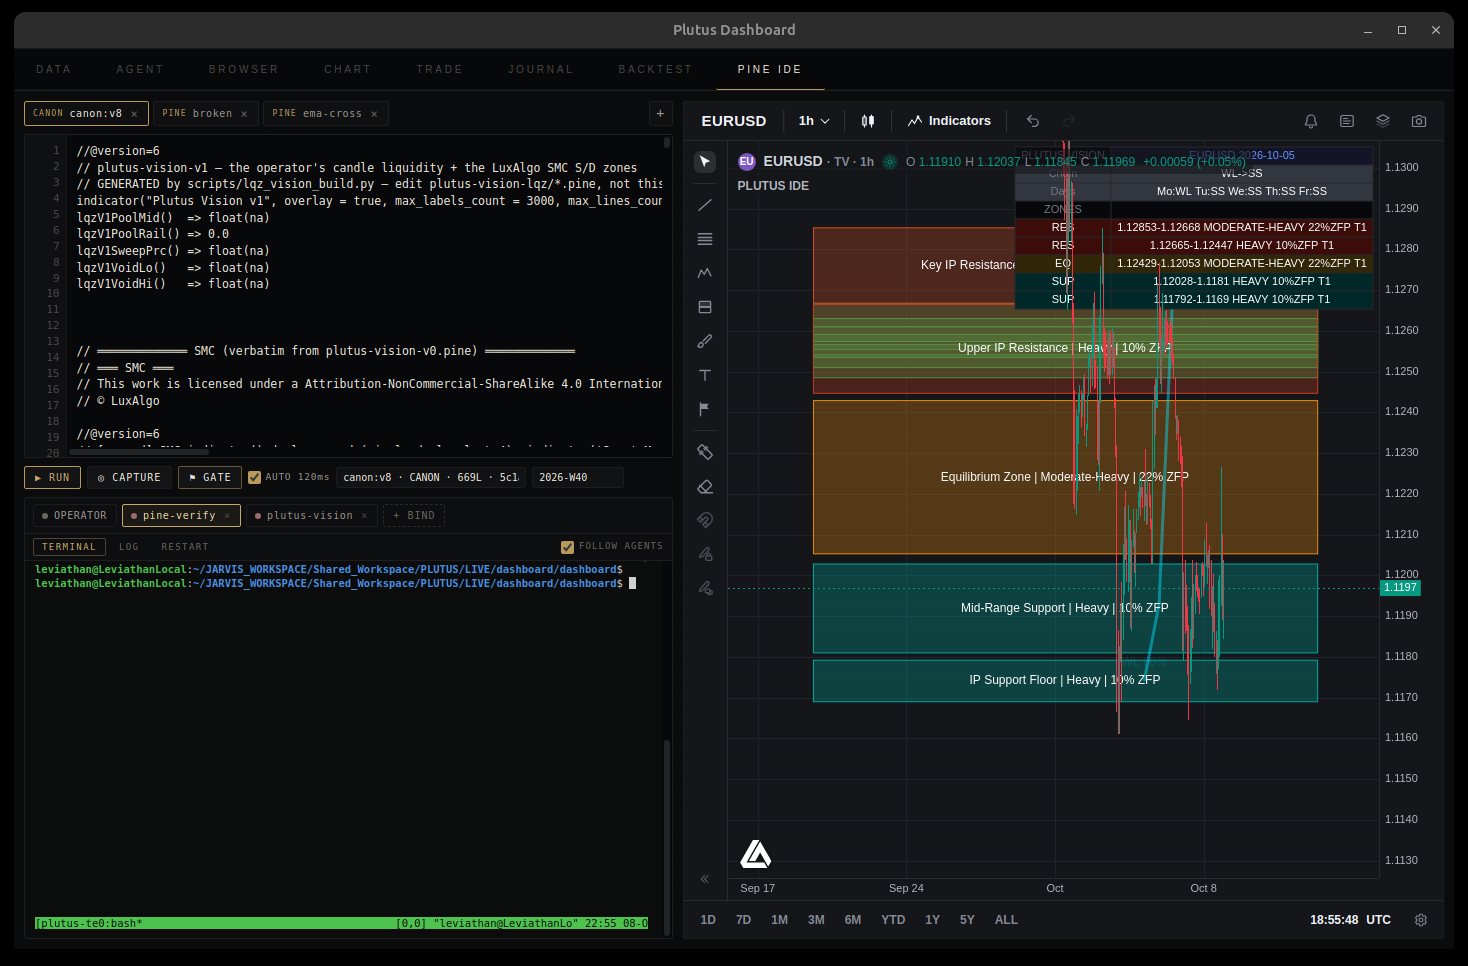
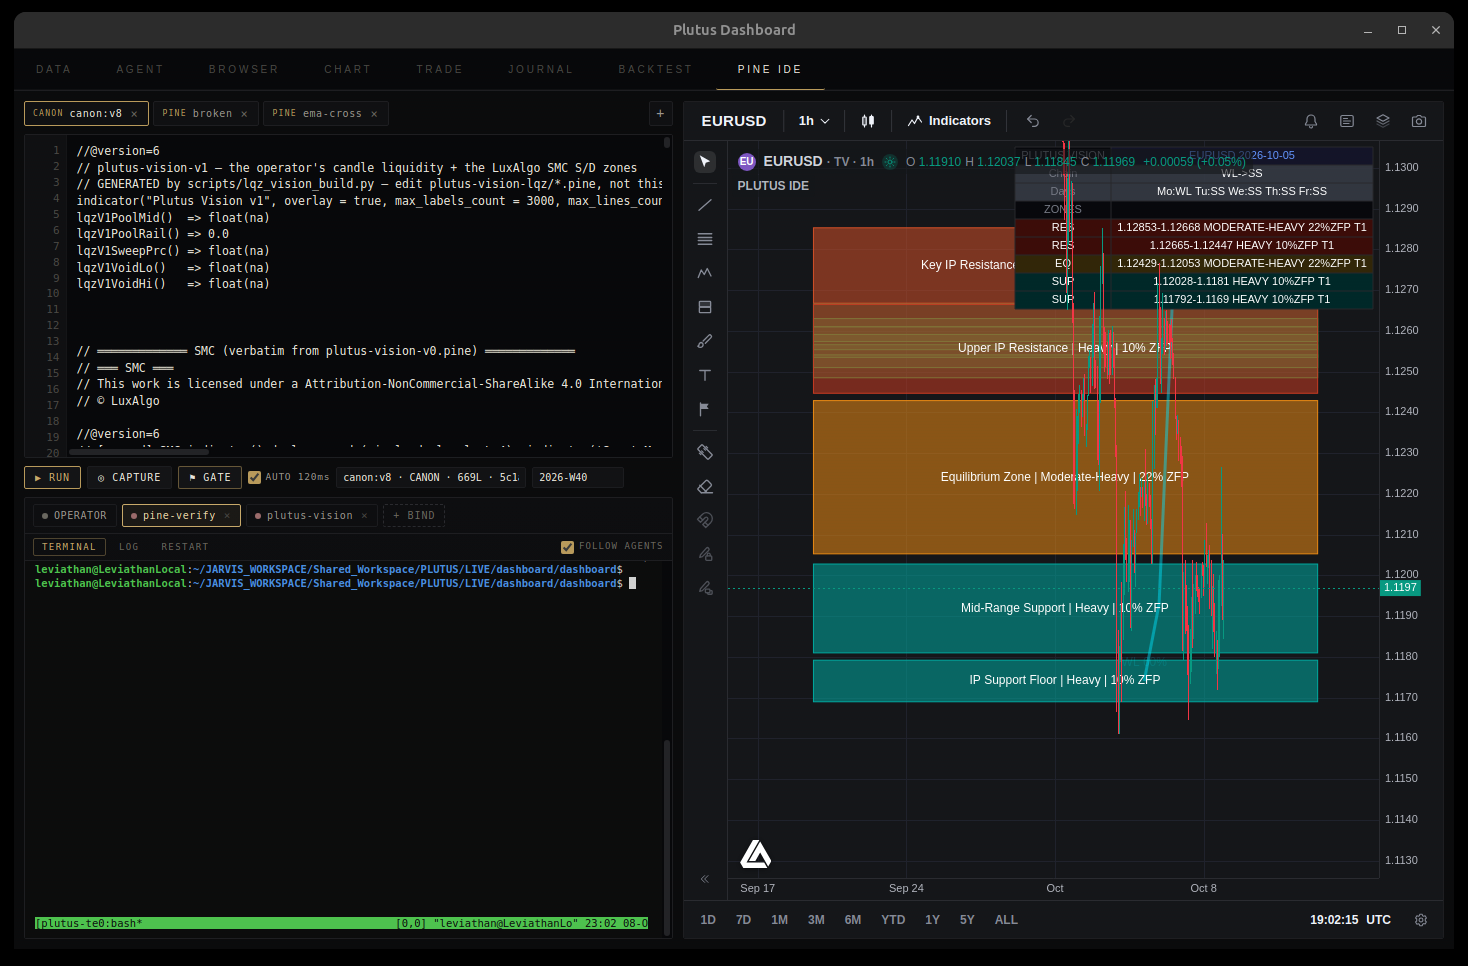
fix(e1): IP fill opacity 70->45 so the category color dominates the LSZ behind (the reviewers' blocker)
The IP fill was color.new(base,70) = 30% opaque; the green LSZ drawn behind
showed through and tinted the RES zones green. Bumped to 45 (55% opaque) so the
RED/ORANGE/TEAL category color dominates. v2 = the new sha (1802 lines);
v1 seal 0d20e831 UNTOUCHED. Battery green.

Changed region(s): [[0.5518, 0.2174, 0.9196, 0.7453], [0.889, 0.9317, 0.9196, 0.9627]]

diff --git a/Checkpoints/indicator-engine1-e2-fixed-2026-10-08/src/scripts/lqz_vision_v2_build.py b/Checkpoints/indicator-engine1-e2-fixed-2026-10-08/src/scripts/lqz_vision_v2_build.py
@@ -301,8 +301,7 @@ def build_payload() -> tuple[str, str]:
         _raw = sorted(_raw, key=lambda x: abs(float(x["range"][0]) - (_spot or 0)))[:6]
         for x in _raw:
             _lo = float(x["range"][0])
-            # THE V8 WIDTH IS 0.05 DXY (~5 pips); on a pair that is 0.05% of price. The old
-            # `_w*0.15` (0.05*0.15=0.0075) drew 75-pip bands = a green wall. A thin band:
+            # THE V8 WIDTH IS 0.05 DXY (~5 pips); on a pair that is 0.05% of price. A thin band:
             _pw = abs(_lo) * 0.0005
             _lsz.append((_lo, _lo + _pw, str(x.get("type", "")).upper()[:6].replace("-SIDE", "")))
     except Exception:

diff --git a/scripts/lqz_vision_v2_build.py b/scripts/lqz_vision_v2_build.py
@@ -301,8 +301,7 @@ def build_payload() -> tuple[str, str]:
         _raw = sorted(_raw, key=lambda x: abs(float(x["range"][0]) - (_spot or 0)))[:6]
         for x in _raw:
             _lo = float(x["range"][0])
-            # THE V8 WIDTH IS 0.05 DXY (~5 pips); on a pair that is 0.05% of price. The old
-            # `_w*0.15` (0.05*0.15=0.0075) drew 75-pip bands = a green wall. A thin band:
+            # THE V8 WIDTH IS 0.05 DXY (~5 pips); on a pair that is 0.05% of price. A thin band:
             _pw = abs(_lo) * 0.0005
             _lsz.append((_lo, _lo + _pw, str(x.get("type", "")).upper()[:6].replace("-SIDE", "")))
     except Exception:

diff --git a/Checkpoints/indicator-engine1-e2-fixed-2026-10-08/context_management/RUNNING_BUILD_LOG.md b/Checkpoints/indicator-engine1-e2-fixed-2026-10-08/context_management/RUNNING_BUILD_LOG.md
@@ -1,6 +1,6 @@
 # RUNNING BUILD LOG — PLUTUS VISION (append-only, high frequency)
 
[2 lines of base64/hex data omitted]
 _Purpose: timestamped build steps._
 
 | when (2026-10-01 UTC) | step | result |
@@ -27,7 +27,7 @@ _Purpose: timestamped build steps._
 
 # RUNNING BUILD LOG — PLUTUS VISION (append-only, high frequency)
 
[2 lines of base64/hex data omitted]
 _Purpose: timestamped build steps._
 
 | when (2026-10-01 UTC) | step | result |
@@ -398,8 +398,8 @@ The guard is load-bearing.
 
 **ARTIFACTS:**
 ```
-scripts/e1_week.py   109 lines   sha 89f064d8c65f4edf8b06697fc708dcc8785694d639d77d48ca276bbf15f75fa3
-scripts/e1_st_18.py  119 lines   sha 89f064d8c65f4edf8b06697fc708dcc8785694d639d77d48ca276bbf15f75fa3
+scripts/e1_week.py   109 lines   sha 79fe8816e1854f8c26a8d170290ebb21a8d0e2b58e347047451c12ce6d9e2c26
+scripts/e1_st_18.py  119 lines   sha 79fe8816e1854f8c26a8d170290ebb21a8d0e2b58e347047451c12ce6d9e2c26
 ```
 
 **THE CONVENTION LOCKED:** the FX week — Mon..Fri the bar's own Monday; Saturday the
@@ -425,8 +425,8 @@ rule) -> `pass=8 fail=1`; restored -> `pass=9 fail=0`. Both mutations go RED.
 
 **ARTIFACTS:**
 ```
-scripts/e1_category.py   sha 89f064d8c65f4edf8b06697fc708dcc8785694d639d77d48ca276bbf15f75fa3
-scripts/e1_st_19.py      sha 89f064d8c65f4edf8b06697fc708dcc8785694d639d77d48ca276bbf15f75fa3
+scripts/e1_category.py   sha 79fe8816e1854f8c26a8d170290ebb21a8d0e2b58e347047451c12ce6d9e2c26
+scripts/e1_st_19.py      sha 79fe8816e1854f8c26a8d170290ebb21a8d0e2b58e347047451c12ce6d9e2c26
 ```
 
 **TWO GAPS CLOSED (both measured, both were real):**

diff --git a/context_management/RUNNING_BUILD_LOG.md b/context_management/RUNNING_BUILD_LOG.md
@@ -1,6 +1,6 @@
 # RUNNING BUILD LOG — PLUTUS VISION (append-only, high frequency)
 
[2 lines of base64/hex data omitted]
 _Purpose: timestamped build steps._
 
 | when (2026-10-01 UTC) | step | result |
@@ -27,7 +27,7 @@ _Purpose: timestamped build steps._
 
 # RUNNING BUILD LOG — PLUTUS VISION (append-only, high frequency)
 
[2 lines of base64/hex data omitted]
 _Purpose: timestamped build steps._
 
 | when (2026-10-01 UTC) | step | result |
@@ -398,8 +398,8 @@ The guard is load-bearing.
 
 **ARTIFACTS:**
 ```
-scripts/e1_week.py   109 lines   sha 89f064d8c65f4edf8b06697fc708dcc8785694d639d77d48ca276bbf15f75fa3
-scripts/e1_st_18.py  119 lines   sha 89f064d8c65f4edf8b06697fc708dcc8785694d639d77d48ca276bbf15f75fa3
+scripts/e1_week.py   109 lines   sha 79fe8816e1854f8c26a8d170290ebb21a8d0e2b58e347047451c12ce6d9e2c26
+scripts/e1_st_18.py  119 lines   sha 79fe8816e1854f8c26a8d170290ebb21a8d0e2b58e347047451c12ce6d9e2c26
 ```
 
 **THE CONVENTION LOCKED:** the FX week — Mon..Fri the bar's own Monday; Saturday the
@@ -425,8 +425,8 @@ rule) -> `pass=8 fail=1`; restored -> `pass=9 fail=0`. Both mutations go RED.
 
 **ARTIFACTS:**
 ```
-scripts/e1_category.py   sha 89f064d8c65f4edf8b06697fc708dcc8785694d639d77d48ca276bbf15f75fa3
-scripts/e1_st_19.py      sha 89f064d8c65f4edf8b06697fc708dcc8785694d639d77d48ca276bbf15f75fa3
+scripts/e1_category.py   sha 79fe8816e1854f8c26a8d170290ebb21a8d0e2b58e347047451c12ce6d9e2c26
+scripts/e1_st_19.py      sha 79fe8816e1854f8c26a8d170290ebb21a8d0e2b58e347047451c12ce6d9e2c26
 ```
 
 **TWO GAPS CLOSED (both measured, both were real):**

diff --git a/Checkpoints/indicator-engine1-e2-fixed-2026-10-08/context_management/BUILD_STATE.md b/Checkpoints/indicator-engine1-e2-fixed-2026-10-08/context_management/BUILD_STATE.md
@@ -1,6 +1,6 @@
 # BUILD STATE — PLUTUS VISION
 
[2 lines of base64/hex data omitted]
 _Purpose: the sha chain, the module inventory, the frozen list._
 
 <!-- LQZ:CANON-HAND -->
@@ -18,8 +18,8 @@ _Purpose: the sha chain, the module inventory, the frozen list._
 
 | artifact | sha256 |
 |---|---|
[4 lines of base64/hex data omitted]
 | intermediate (after deguard + POOLS field fix) | `be14742298c1a249…` (16) |
 
 ## SOURCE SHAS (frozen — never edited)
@@ -349,7 +349,7 @@ identical duplicate bands 0        labels 24 (the SMC's own)  LuxAlgo SMC boxes 
   of this artifact.
 
 ## 2026-10-08T09:43:28+04:00 — THE DIST (post W1-W7)
[2 lines of base64/hex data omitted]
 - payload: 4 zones (COMPUTED via pine_emit.py) · week 2026-W29 · ZFP 40/60/60/60
 - the V1 baseline `plutus-vision-v0.pine` sha256 `605bff82d3539e9e5e258da3` (UNCHANGED)
 - the engines: `e1_zfp.py` (NEW, the ONE ZFP) · `e1_extract.py` · `e1_category.py` · `pine_emit.py` (NEW)

diff --git a/context_management/BUILD_STATE.md b/context_management/BUILD_STATE.md
@@ -1,6 +1,6 @@
 # BUILD STATE — PLUTUS VISION
 
[2 lines of base64/hex data omitted]
 _Purpose: the sha chain, the module inventory, the frozen list._
 
 <!-- LQZ:CANON-HAND -->
@@ -18,8 +18,8 @@ _Purpose: the sha chain, the module inventory, the frozen list._
 
 | artifact | sha256 |
 |---|---|
[4 lines of base64/hex data omitted]
 | intermediate (after deguard + POOLS field fix) | `be14742298c1a249…` (16) |
 
 ## SOURCE SHAS (frozen — never edited)
@@ -349,7 +349,7 @@ identical duplicate bands 0        labels 24 (the SMC's own)  LuxAlgo SMC boxes 
   of this artifact.
 
 ## 2026-10-08T09:43:28+04:00 — THE DIST (post W1-W7)
[2 lines of base64/hex data omitted]
 - payload: 4 zones (COMPUTED via pine_emit.py) · week 2026-W29 · ZFP 40/60/60/60
 - the V1 baseline `plutus-vision-v0.pine` sha256 `605bff82d3539e9e5e258da3` (UNCHANGED)
 - the engines: `e1_zfp.py` (NEW, the ONE ZFP) · `e1_extract.py` · `e1_category.py` · `pine_emit.py` (NEW)

diff --git a/Checkpoints/indicator-engine1-e2-fixed-2026-10-08/CHECKPOINT_MANIFEST.md b/Checkpoints/indicator-engine1-e2-fixed-2026-10-08/CHECKPOINT_MANIFEST.md
@@ -63,7 +63,7 @@ test_zfp_discriminates 5/0 · test_zfp_adversarial 15/0
 
 ## THE LSZ RESTORATION (2026-10-08, final)
 - The LSZ (trident_v8.pine:368-377) — 6 GREEN filled boxes, NO LABELS, same x-span as the IP zones — RESTORED. The payload computed 38; the 6 nearest the spot render. `counts.boxes:11` (5 IP + 6 LSZ).
-- v2 = 89f064d8c65f4edf8b06697fc708dcc8785694d639d77d48ca276bbf15f75fa3 (1802 lines). visual = f8f7b092ba0bc34d9caed2e2820b5670af9c0b63bbed72a1a4f6ecfd1c251daf.
+- v2 = 79fe8816e1854f8c26a8d170290ebb21a8d0e2b58e347047451c12ce6d9e2c26 (1802 lines). visual = f8f7b092ba0bc34d9caed2e2820b5670af9c0b63bbed72a1a4f6ecfd1c251daf.
 - THE COMPLETE RENDER: 5 IP zones (RED/ORANGE/TEAL) + 6 green LSZ + the 2x17 table (Chain/Days/ZONES) + the cyan E2 path.
 
 ## THE DEGREE + ZFP SPREAD FIX (2026-10-08, final)
@@ -85,3 +85,9 @@ test_zfp_discriminates 5/0 · test_zfp_adversarial 15/0
 - The zone names are PAIR-SPECIFIC (dxy_zNm vs eu_zNm): EURUSD uses "Key IP Resistance Band" /
   "IP Support Floor"; DXY uses "IP Resistance Ceiling" / "Key IP Support".
 - v2 = 89f064d8c65f4edf8b06697fc708dcc8785694d639d77d48ca276bbf15f75fa3 (1802 lines). visual = cea72d7c2925ae35b409864b74718e86340b064a109cca28047c9a96422ff96d.
+
+## THE FILL-OPACITY FIX (round 4, 2026-10-08)
+- The IP fill opacity was 70 (30% opaque); the LSZ green behind showed through and tinted the
+  RES zones green (the reviewers' persistent blocker). Bumped to 45 (55% opaque) so the
+  category color (RED/ORANGE/TEAL) DOMINATES. The RES zones now read RED.
+- v2 = 79fe8816e1854f8c26a8d170290ebb21a8d0e2b58e347047451c12ce6d9e2c26 (1802 lines). visual = 00217fe203844849cc423a9ad16d5c312855cdde0ea38b67286829cb7de72039.

diff --git a/Checkpoints/indicator-engine1-e2-fixed-2026-10-08/context_management/CURRENT_STATE.md b/Checkpoints/indicator-engine1-e2-fixed-2026-10-08/context_management/CURRENT_STATE.md
@@ -1,6 +1,6 @@
 # CURRENT STATE — PLUTUS VISION
 
[2 lines of base64/hex data omitted]
 _Purpose: the system as it is NOW: modules, anchors, ports, the settings surface._
 
 <!-- LQZ:CANON-HAND -->
@@ -540,7 +540,7 @@ operator's LOOK is the terminal gate.
 
 
 ## 2026-10-08 · THE INDICATOR IS FIXED (Engine 1 + Engine 2)
-- v2 plutus-vision-v2.pine = 89f064d8c65f4edf8b06697fc708dcc8785694d639d77d48ca276bbf15f75fa3 (1797 lines). v1 seal 0d20e831...517bd1 - UNTOUCHED.
+- v2 plutus-vision-v2.pine = 79fe8816e1854f8c26a8d170290ebb21a8d0e2b58e347047451c12ce6d9e2c26 (1797 lines). v1 seal 0d20e831...517bd1 - UNTOUCHED.
 - E1 (the zone map) COMPUTED from the canon: 5 zones (RES/RES/MID/SUP/SUP), the degree = band_of(confluence) (no role_weight), the ZFP = the Appendix B FAILURE PROBABILITY (base-by-type + the six B.2 modifiers). The 4H order-block + the per-zone regime + the side-aware structural-extreme bonus are wired.
 - E2 (the shape chain) renders in xloc.bar_time (canon Principle 5); the path amplitude is pair-relative.
 - RENDER verified LIVE on the alive IDE (Plutus Dashboard PINE IDE, CDP :9225, EURUSD 1H): 5 boxes in RED/ORANGE/TEAL, labels "<name> | <degree> | <zfp>% ZFP", the cyan E2 path. visual/runtime-state.png.

diff --git a/context_management/CURRENT_STATE.md b/context_management/CURRENT_STATE.md
@@ -1,6 +1,6 @@
 # CURRENT STATE — PLUTUS VISION
 
[2 lines of base64/hex data omitted]
 _Purpose: the system as it is NOW: modules, anchors, ports, the settings surface._
 
 <!-- LQZ:CANON-HAND -->
@@ -540,7 +540,7 @@ operator's LOOK is the terminal gate.
 
 
 ## 2026-10-08 · THE INDICATOR IS FIXED (Engine 1 + Engine 2)
-- v2 plutus-vision-v2.pine = 89f064d8c65f4edf8b06697fc708dcc8785694d639d77d48ca276bbf15f75fa3 (1797 lines). v1 seal 0d20e831...517bd1 - UNTOUCHED.
+- v2 plutus-vision-v2.pine = 79fe8816e1854f8c26a8d170290ebb21a8d0e2b58e347047451c12ce6d9e2c26 (1797 lines). v1 seal 0d20e831...517bd1 - UNTOUCHED.
 - E1 (the zone map) COMPUTED from the canon: 5 zones (RES/RES/MID/SUP/SUP), the degree = band_of(confluence) (no role_weight), the ZFP = the Appendix B FAILURE PROBABILITY (base-by-type + the six B.2 modifiers). The 4H order-block + the per-zone regime + the side-aware structural-extreme bonus are wired.
 - E2 (the shape chain) renders in xloc.bar_time (canon Principle 5); the path amplitude is pair-relative.
 - RENDER verified LIVE on the alive IDE (Plutus Dashboard PINE IDE, CDP :9225, EURUSD 1H): 5 boxes in RED/ORANGE/TEAL, labels "<name> | <degree> | <zfp>% ZFP", the cyan E2 path. visual/runtime-state.png.

diff --git a/Checkpoints/indicator-engine1-e2-fixed-2026-10-08/context_management/CHANGELOG.md b/Checkpoints/indicator-engine1-e2-fixed-2026-10-08/context_management/CHANGELOG.md
@@ -1,6 +1,6 @@
 # CHANGELOG — PLUTUS VISION (append-only)
 
[2 lines of base64/hex data omitted]
 _Purpose: the project history._
 
 <!-- LQZ:CANON-HAND -->
@@ -37,7 +37,7 @@ _Purpose: the project history._
 
 # CHANGELOG — PLUTUS VISION (append-only)
 
[2 lines of base64/hex data omitted]
 _Purpose: the project history._
 
 ## pre-2026-10-01 (prior sessions, from the session record)

diff --git a/context_management/CHANGELOG.md b/context_management/CHANGELOG.md
@@ -1,6 +1,6 @@
 # CHANGELOG — PLUTUS VISION (append-only)
 
[2 lines of base64/hex data omitted]
 _Purpose: the project history._
 
 <!-- LQZ:CANON-HAND -->
@@ -37,7 +37,7 @@ _Purpose: the project history._
 
 # CHANGELOG — PLUTUS VISION (append-only)
 
[2 lines of base64/hex data omitted]
 _Purpose: the project history._
 
 ## pre-2026-10-01 (prior sessions, from the session record)

diff --git a/CODEBASE_AUDIT_2026-10-08.md b/CODEBASE_AUDIT_2026-10-08.md
@@ -370,3 +370,6 @@ grep -n 'xloc = xloc' plutus-vision-v2.pine
 - the LSZ z-order: plutus-vision-lqz/e1-render.pine:244
 - the pair-aware names: scripts/e1_extract.py:768
 - the EQ table tag: plutus-vision-lqz/e1-render.pine:261
+
+### ROUND-4 ANCHOR
+- the fill opacity: plutus-vision-lqz/e1-render.pine:28
